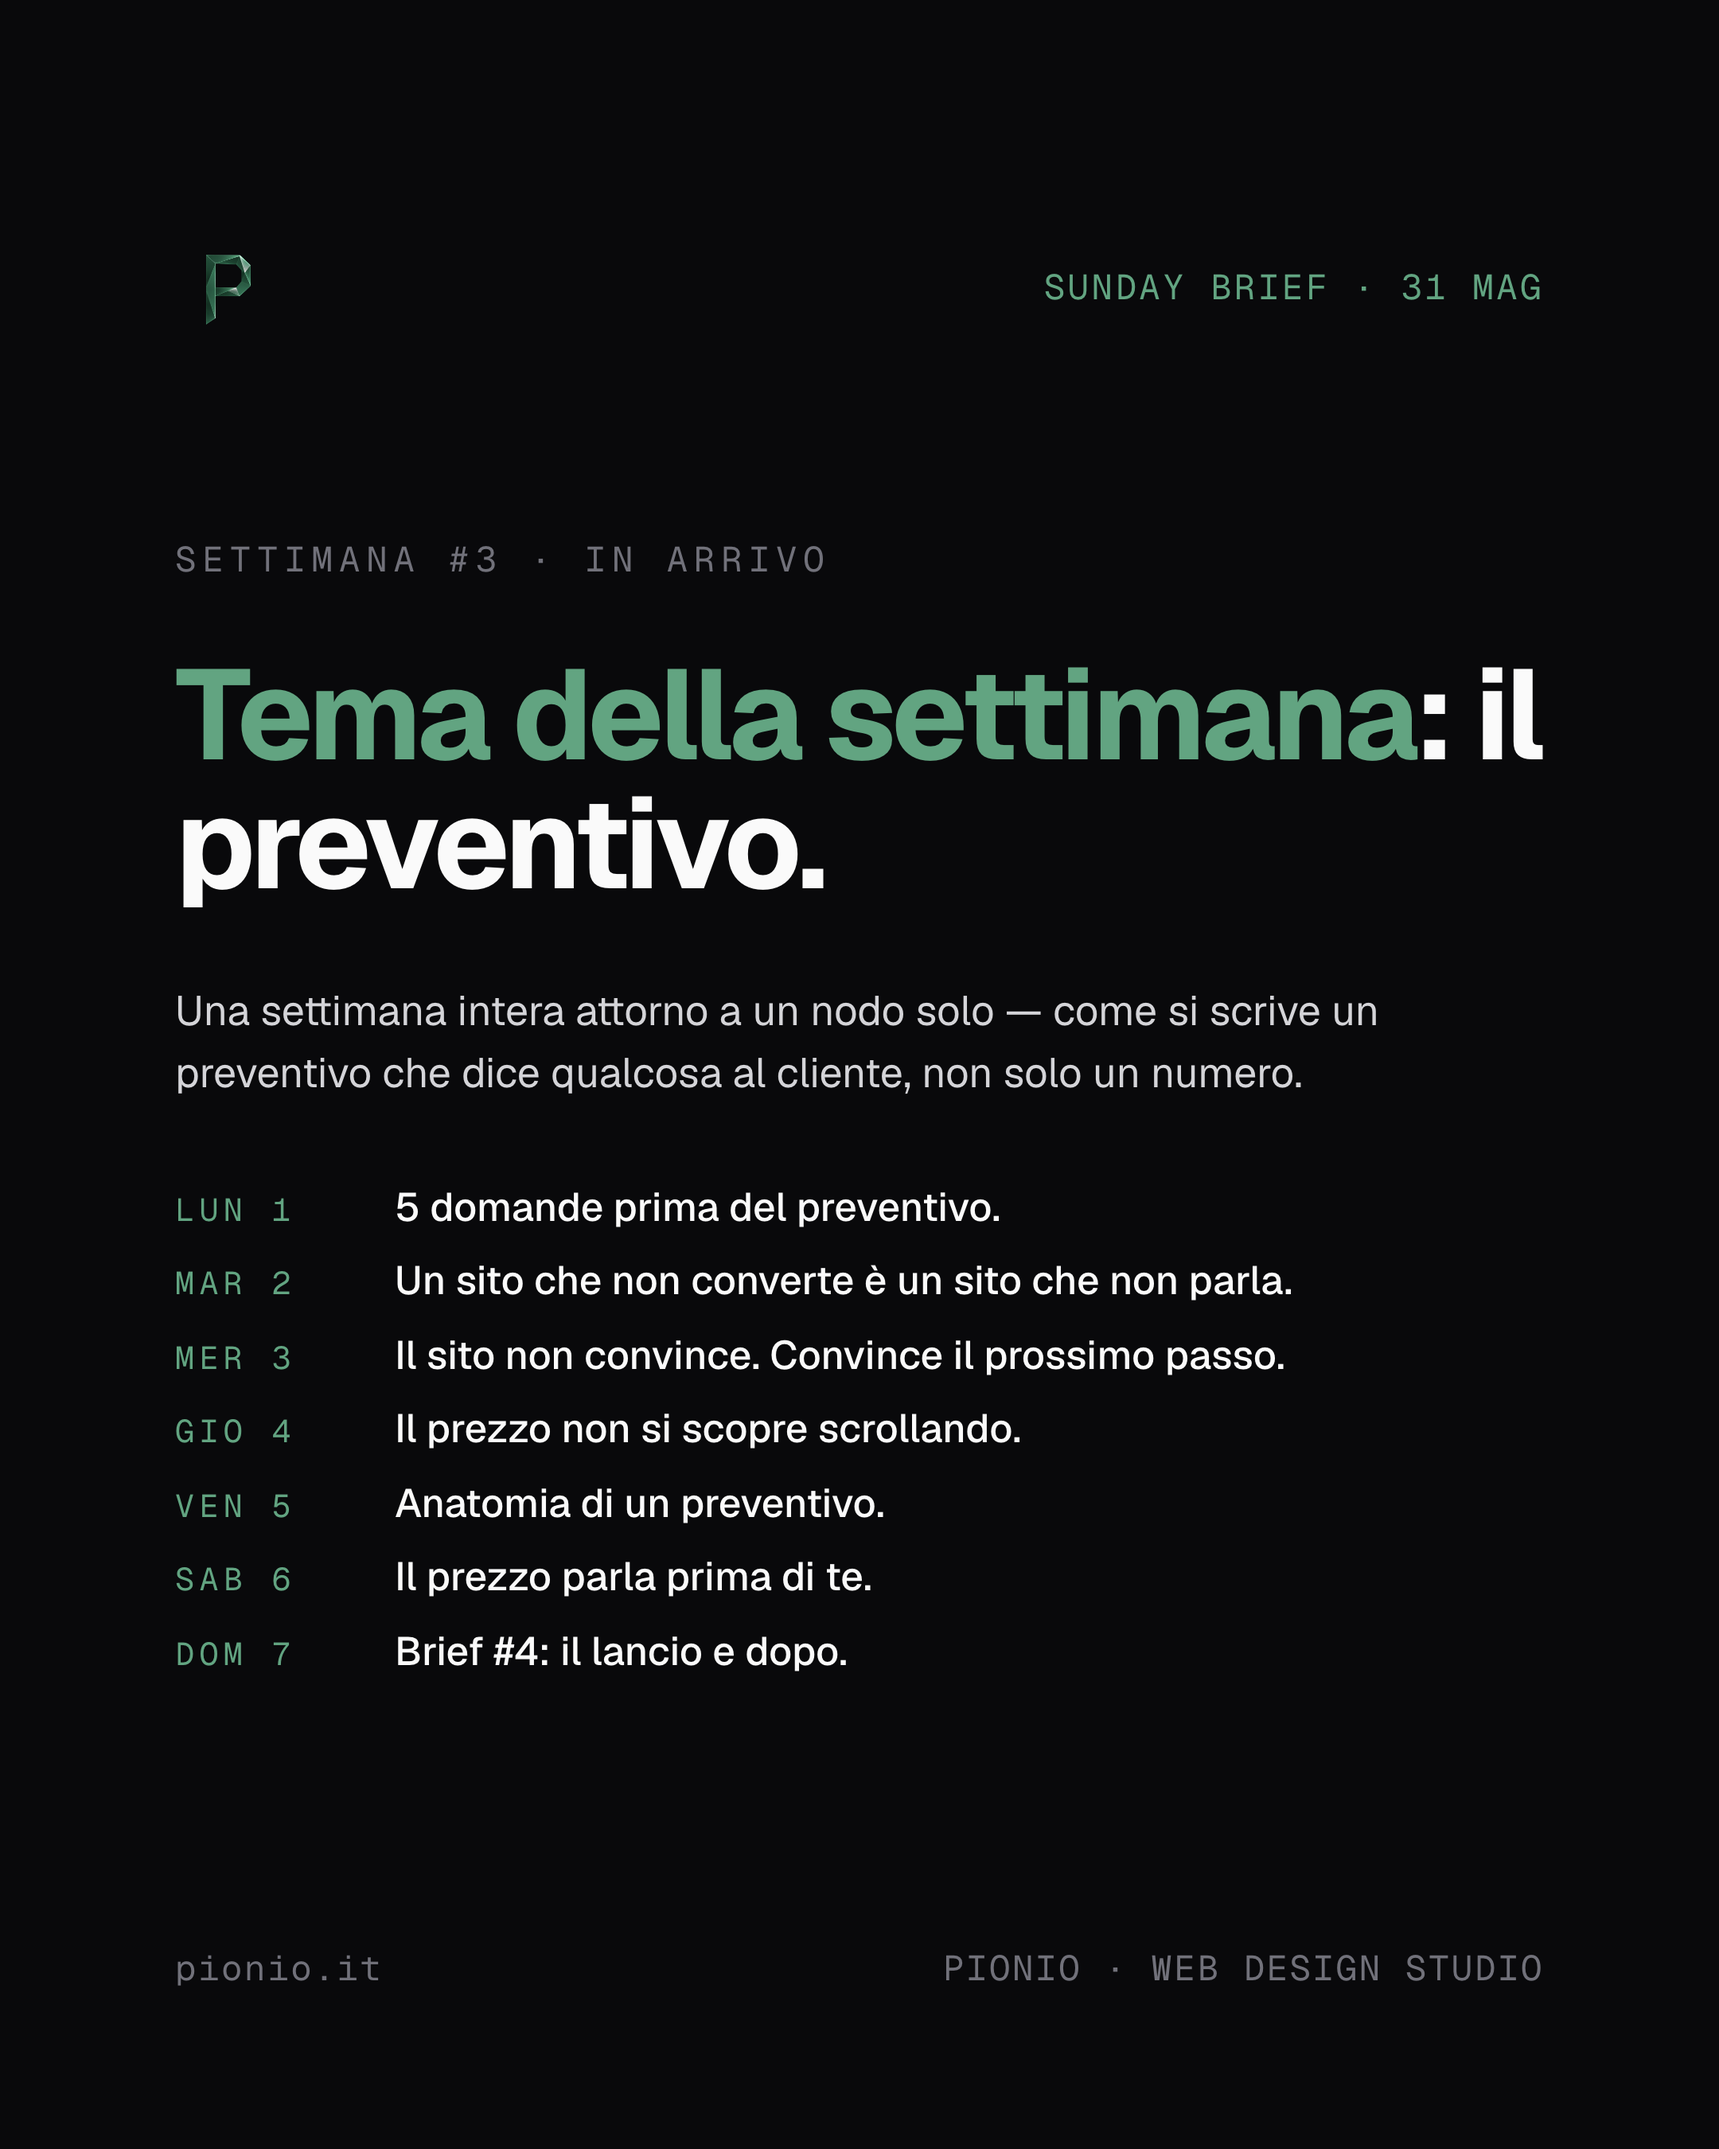
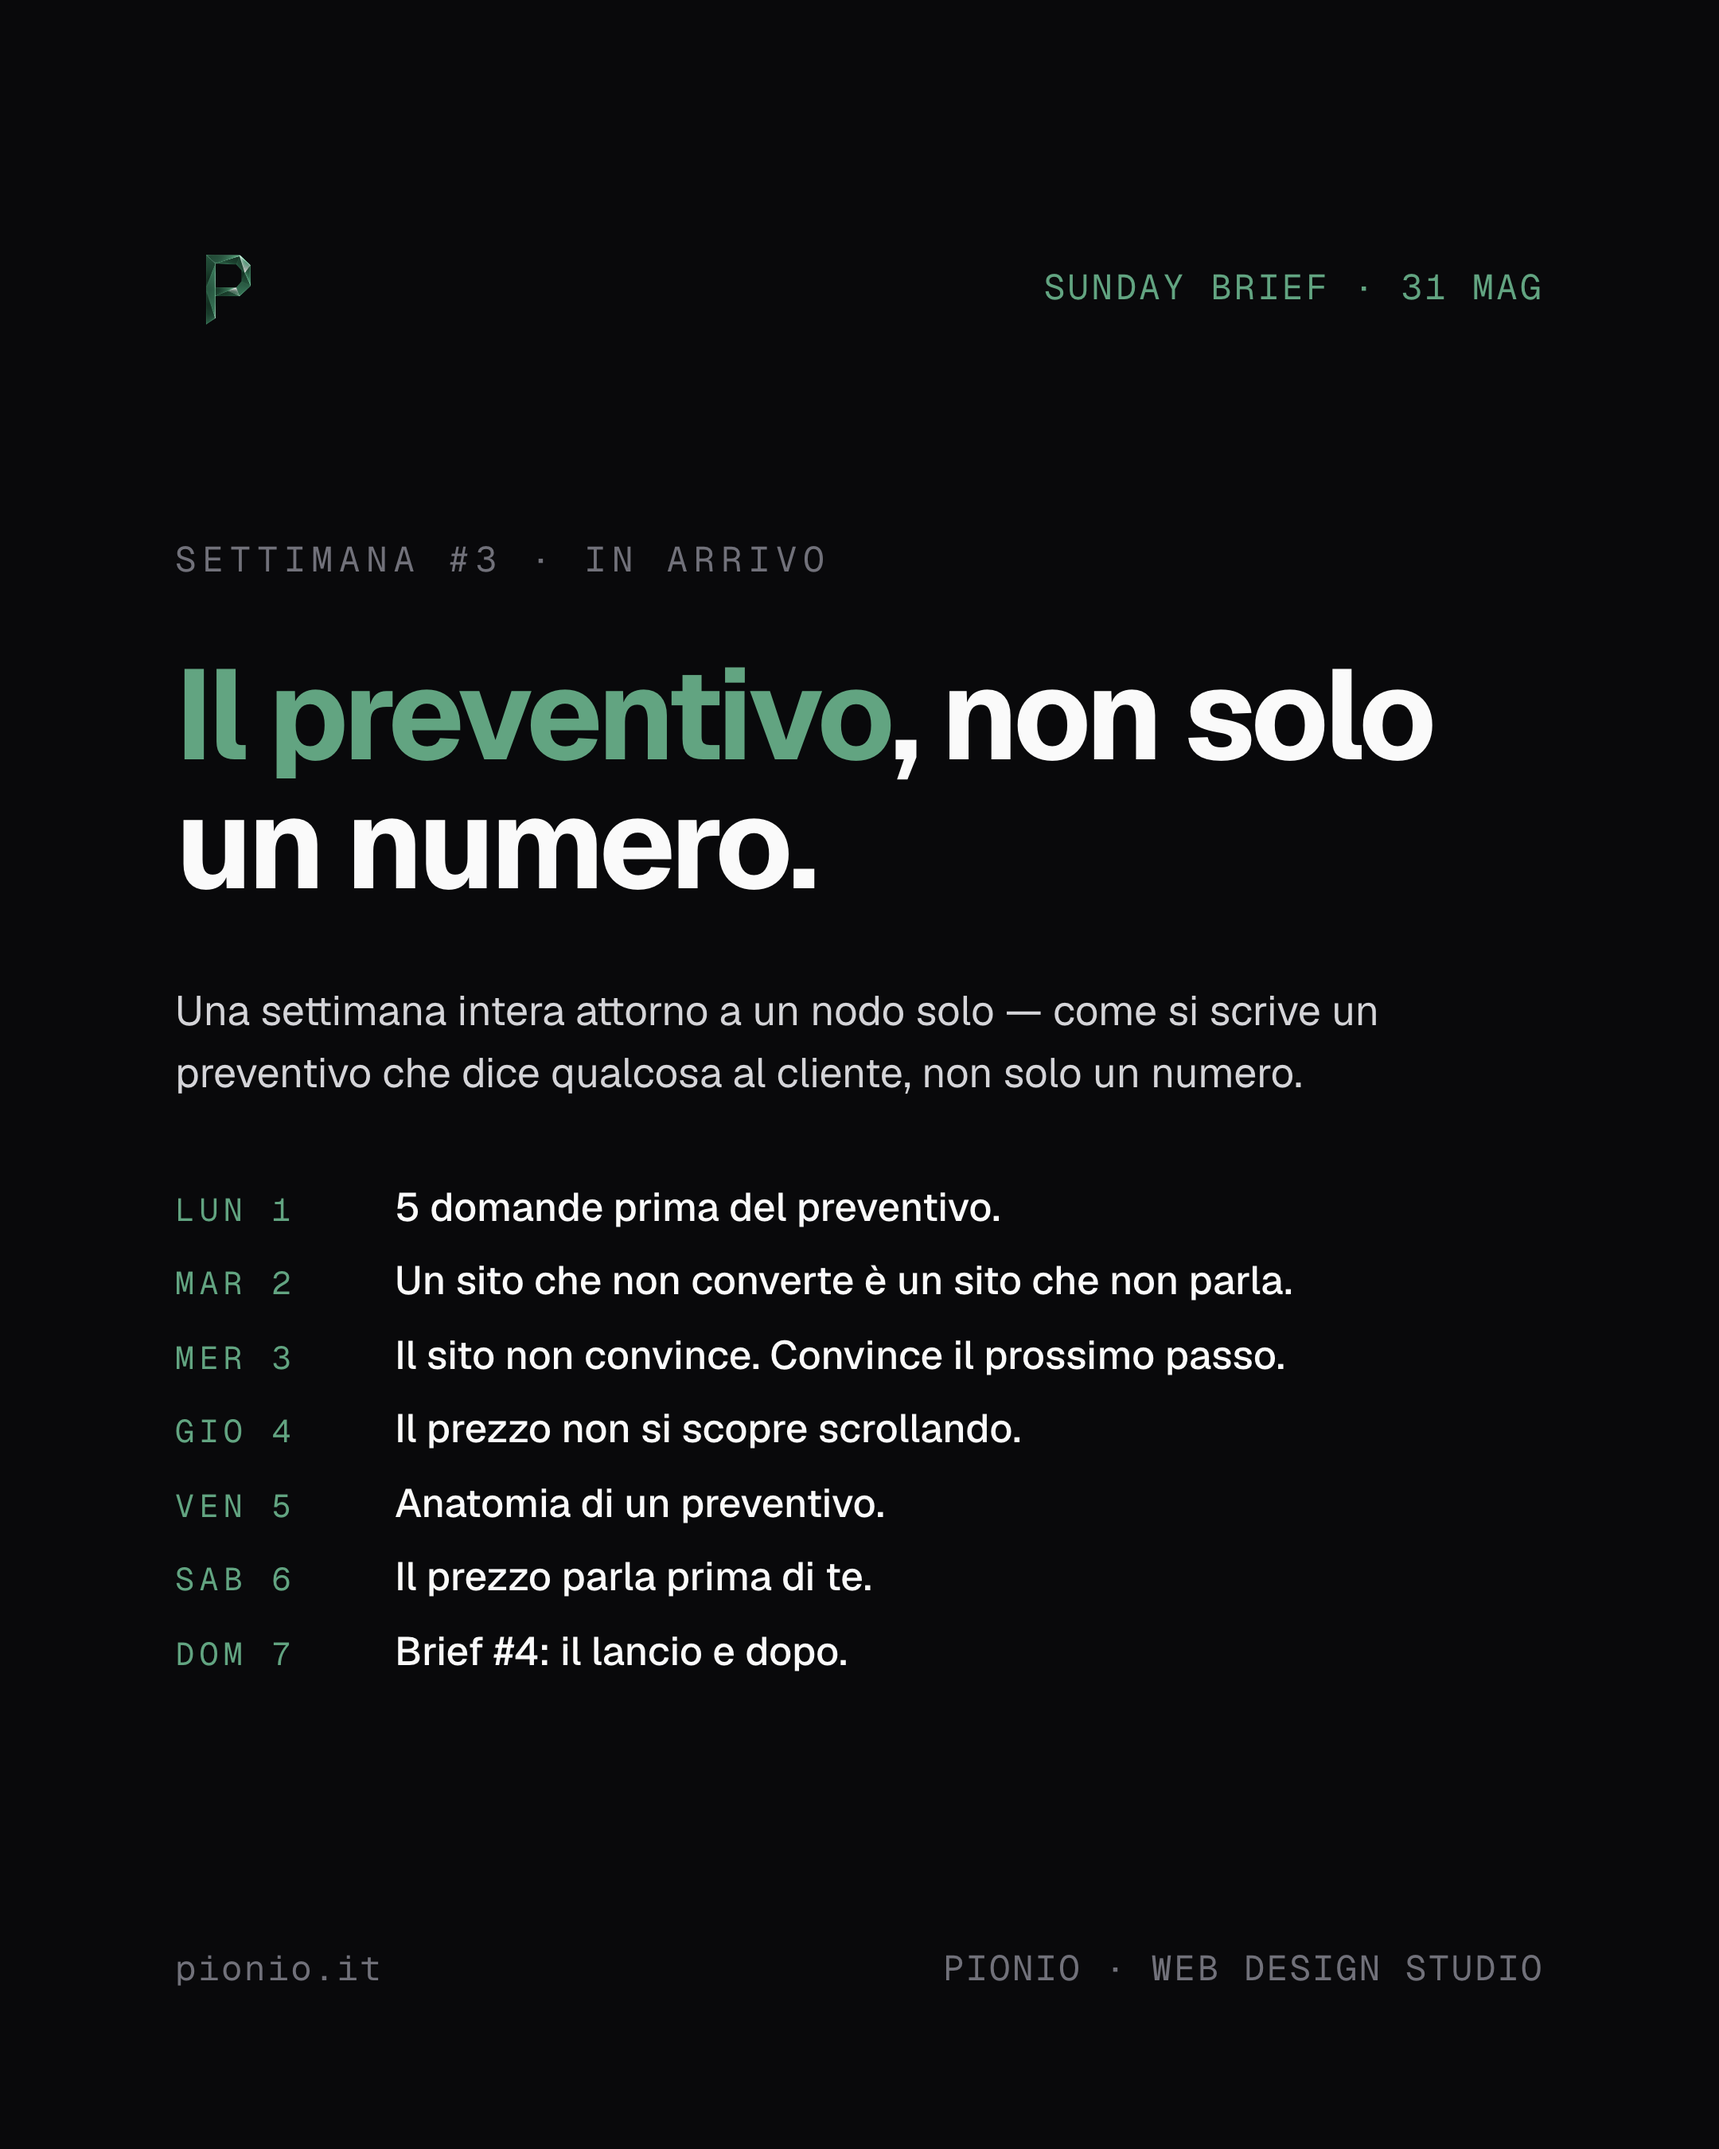
fix(instagram): Brief titoli tematici diretti (no più 'Tema della settimana: X')

Changed region(s): [[0.0931, 0.3111, 0.8995, 0.4356], [0.0931, 0.4044, 0.1241, 0.4356]]

diff --git a/instagram/content/settimana-11-lug-2026/7-dom-2-13-brief-settimana-12/src/slides.html b/instagram/content/settimana-11-lug-2026/7-dom-2-13-brief-settimana-12/src/slides.html
@@ -40,7 +40,7 @@
   </div>
   <div class="main">
     <div class="brief-kicker">SETTIMANA #12 · IN ARRIVO</div>
-    <h1 class="brief-title"><em>Tema della settimana</em>: lanciare bene.</h1>
+    <h1 class="brief-title"><em>Lanciare</em> bene.</h1>
     <p class="brief-lead">
       Il sito è pronto. Pubblicarlo non è la fine — è l'inizio. Sette giorni dentro la checklist di lancio, l'annuncio fatto bene, il debug delle prime 24 ore, l'analytics che si guarda subito e quello che si aspetta a leggere.
     </p>

diff --git a/instagram/content/settimana-04-giu-2026/7-dom-14-13-brief-settimana-5/src/slides.html b/instagram/content/settimana-04-giu-2026/7-dom-14-13-brief-settimana-5/src/slides.html
@@ -83,7 +83,7 @@
 
   <div class="main">
     <div class="brief-kicker">SETTIMANA #5 · IN ARRIVO</div>
-    <h1 class="brief-title"><em>Tema della settimana</em>: tenere il sito vivo.</h1>
+    <h1 class="brief-title">Un sito vivo è uno che si <em>tocca</em>.</h1>
     <p class="brief-lead">
       Dopo il lancio, l'altra metà del progetto. Cosa cambia ogni settimana, cosa va aggiornato ogni mese, perché un sito "fermo" invecchia molto più in fretta di uno che si tocca un poco alla volta.
     </p>

diff --git a/instagram/content/settimana-07-giu-2026/7-dom-5-13-brief-settimana-8/src/slides.html b/instagram/content/settimana-07-giu-2026/7-dom-5-13-brief-settimana-8/src/slides.html
@@ -40,7 +40,7 @@
   </div>
   <div class="main">
     <div class="brief-kicker">SETTIMANA #8 · IN ARRIVO</div>
-    <h1 class="brief-title"><em>Tema della settimana</em>: il primo contatto.</h1>
+    <h1 class="brief-title">Il primo contatto è già il <em>progetto</em>.</h1>
     <p class="brief-lead">
       Come comincia un progetto. La prima mail, la mood call, i primi sette giorni di un lavoro. Cosa cerco, cosa propongo, come si decide insieme se andiamo avanti.
     </p>

diff --git a/instagram/content/settimana-08-lug-2026/7-dom-12-13-brief-settimana-9/src/slides.html b/instagram/content/settimana-08-lug-2026/7-dom-12-13-brief-settimana-9/src/slides.html
@@ -40,7 +40,7 @@
   </div>
   <div class="main">
     <div class="brief-kicker">SETTIMANA #9 · IN ARRIVO</div>
-    <h1 class="brief-title"><em>Tema della settimana</em>: la discovery.</h1>
+    <h1 class="brief-title"><em>Capire</em>, prima di disegnare.</h1>
     <p class="brief-lead">
       Capire il progetto prima di disegnare. La fase più sottovalutata del mestiere — quella che precede ogni linea, ogni colore, ogni decisione di interfaccia.
     </p>

diff --git a/instagram/content/settimana-06-giu-2026/7-dom-28-13-brief-settimana-7/src/slides.html b/instagram/content/settimana-06-giu-2026/7-dom-28-13-brief-settimana-7/src/slides.html
@@ -40,7 +40,7 @@
   </div>
   <div class="main">
     <div class="brief-kicker">SETTIMANA #7 · IN ARRIVO</div>
-    <h1 class="brief-title"><em>Tema della settimana</em>: scegliere chi non sei.</h1>
+    <h1 class="brief-title">Scegliere <em>chi non sei</em>.</h1>
     <p class="brief-lead">
       L'attenzione si sposta sullo studio. Come si sceglie il cliente, quando si dice no, perché una nicchia stretta porta progetti migliori di una larga.
     </p>

diff --git a/instagram/content/settimana-03-giu-2026/7-dom-07-13-brief-settimana-4/src/slides.html b/instagram/content/settimana-03-giu-2026/7-dom-07-13-brief-settimana-4/src/slides.html
@@ -83,7 +83,7 @@
 
   <div class="main">
     <div class="brief-kicker">SETTIMANA #4 · IN ARRIVO</div>
-    <h1 class="brief-title"><em>Tema della settimana</em>: il lancio e dopo.</h1>
+    <h1 class="brief-title">Il <em>lancio</em>, e i trenta giorni dopo.</h1>
     <p class="brief-lead">
       Una settimana sul momento più sottovalutato del progetto: il giorno in cui il sito va online — e i trenta che vengono dopo.
     </p>

diff --git a/instagram/content/settimana-02-mag-2026/7-dom-31-13-brief-settimana-3/src/slides.html b/instagram/content/settimana-02-mag-2026/7-dom-31-13-brief-settimana-3/src/slides.html
@@ -83,7 +83,7 @@
 
   <div class="main">
     <div class="brief-kicker">SETTIMANA #3 · IN ARRIVO</div>
-    <h1 class="brief-title"><em>Tema della settimana</em>: il preventivo.</h1>
+    <h1 class="brief-title"><em>Il preventivo</em>, non solo un numero.</h1>
     <p class="brief-lead">
       Una settimana intera attorno a un nodo solo — come si scrive un preventivo che dice qualcosa al cliente, non solo un numero.
     </p>

diff --git a/instagram/content/settimana-09-lug-2026/7-dom-19-13-brief-settimana-10/src/slides.html b/instagram/content/settimana-09-lug-2026/7-dom-19-13-brief-settimana-10/src/slides.html
@@ -40,7 +40,7 @@
   </div>
   <div class="main">
     <div class="brief-kicker">SETTIMANA #10 · IN ARRIVO</div>
-    <h1 class="brief-title"><em>Tema della settimana</em>: decisioni di design.</h1>
+    <h1 class="brief-title">Decisioni di <em>design</em>.</h1>
     <p class="brief-lead">
       Dopo aver capito, si decide. Gerarchia, focus, sottrarre. Le tre forze che spostano un sito dal "tutto" al "questo soltanto".
     </p>

diff --git a/instagram/content/settimana-05-giu-2026/7-dom-21-13-brief-settimana-6/src/slides.html b/instagram/content/settimana-05-giu-2026/7-dom-21-13-brief-settimana-6/src/slides.html
@@ -83,7 +83,7 @@
 
   <div class="main">
     <div class="brief-kicker">SETTIMANA #6 · IN ARRIVO</div>
-    <h1 class="brief-title"><em>Tema della settimana</em>: quando rifare un sito.</h1>
+    <h1 class="brief-title">Quando <em>rifare</em> un sito.</h1>
     <p class="brief-lead">
       Il momento in cui anche la manutenzione non basta più. Come riconoscerlo, come decidere, come dirlo al cliente.
     </p>
